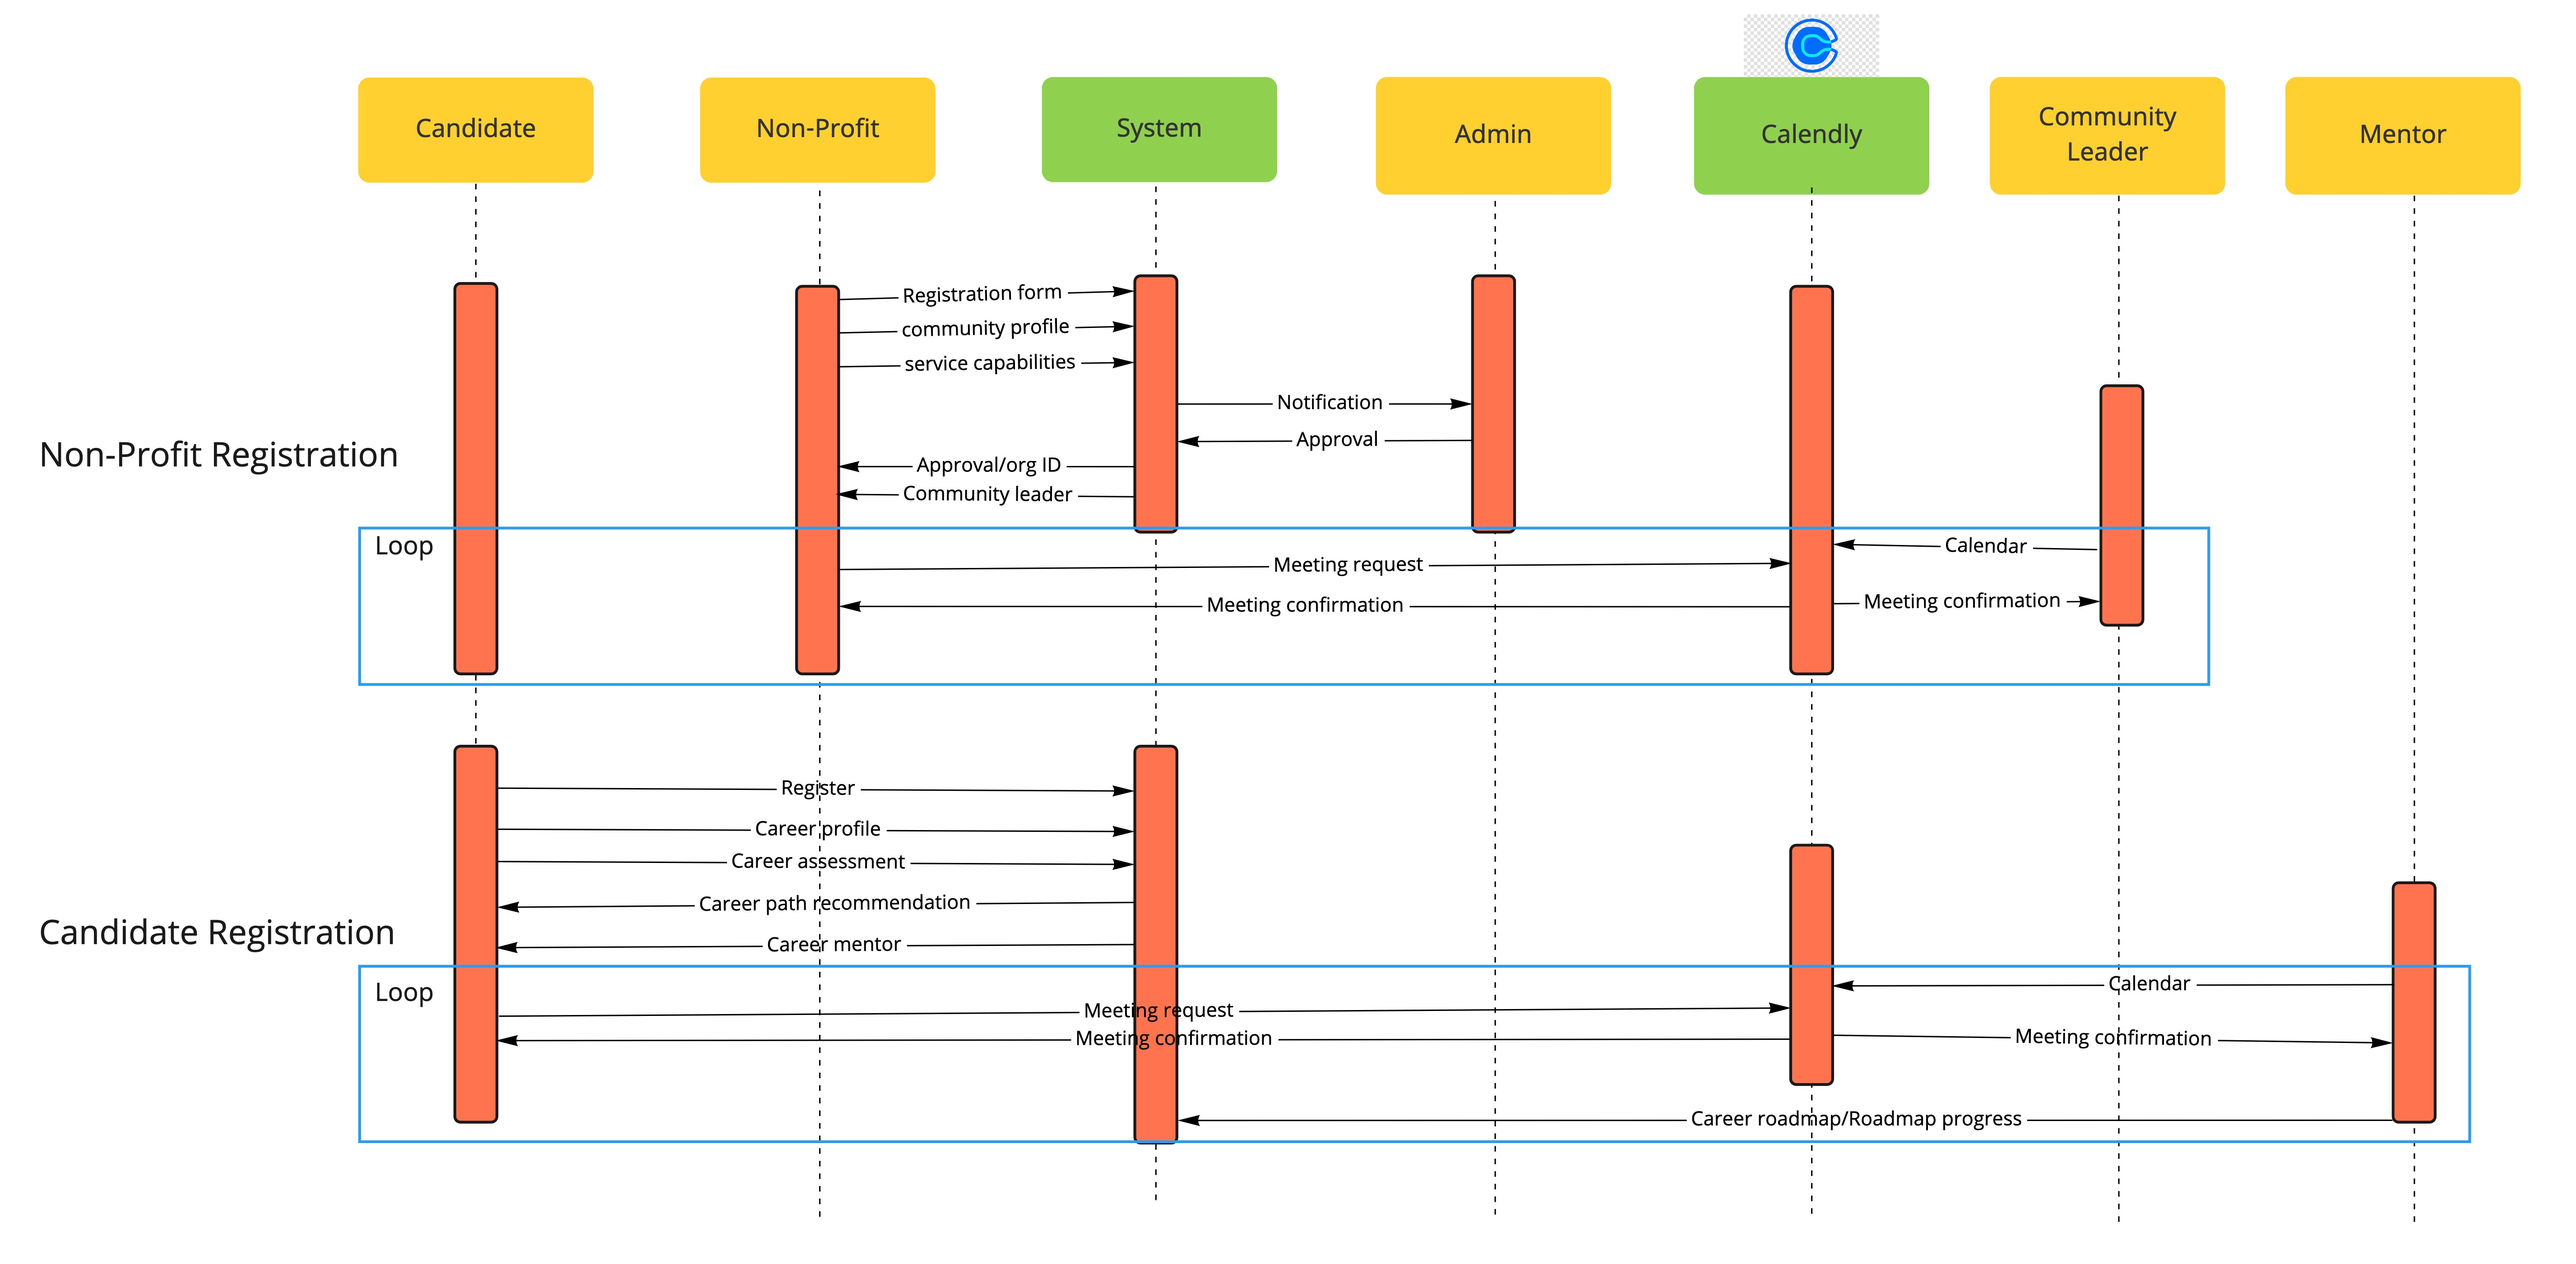
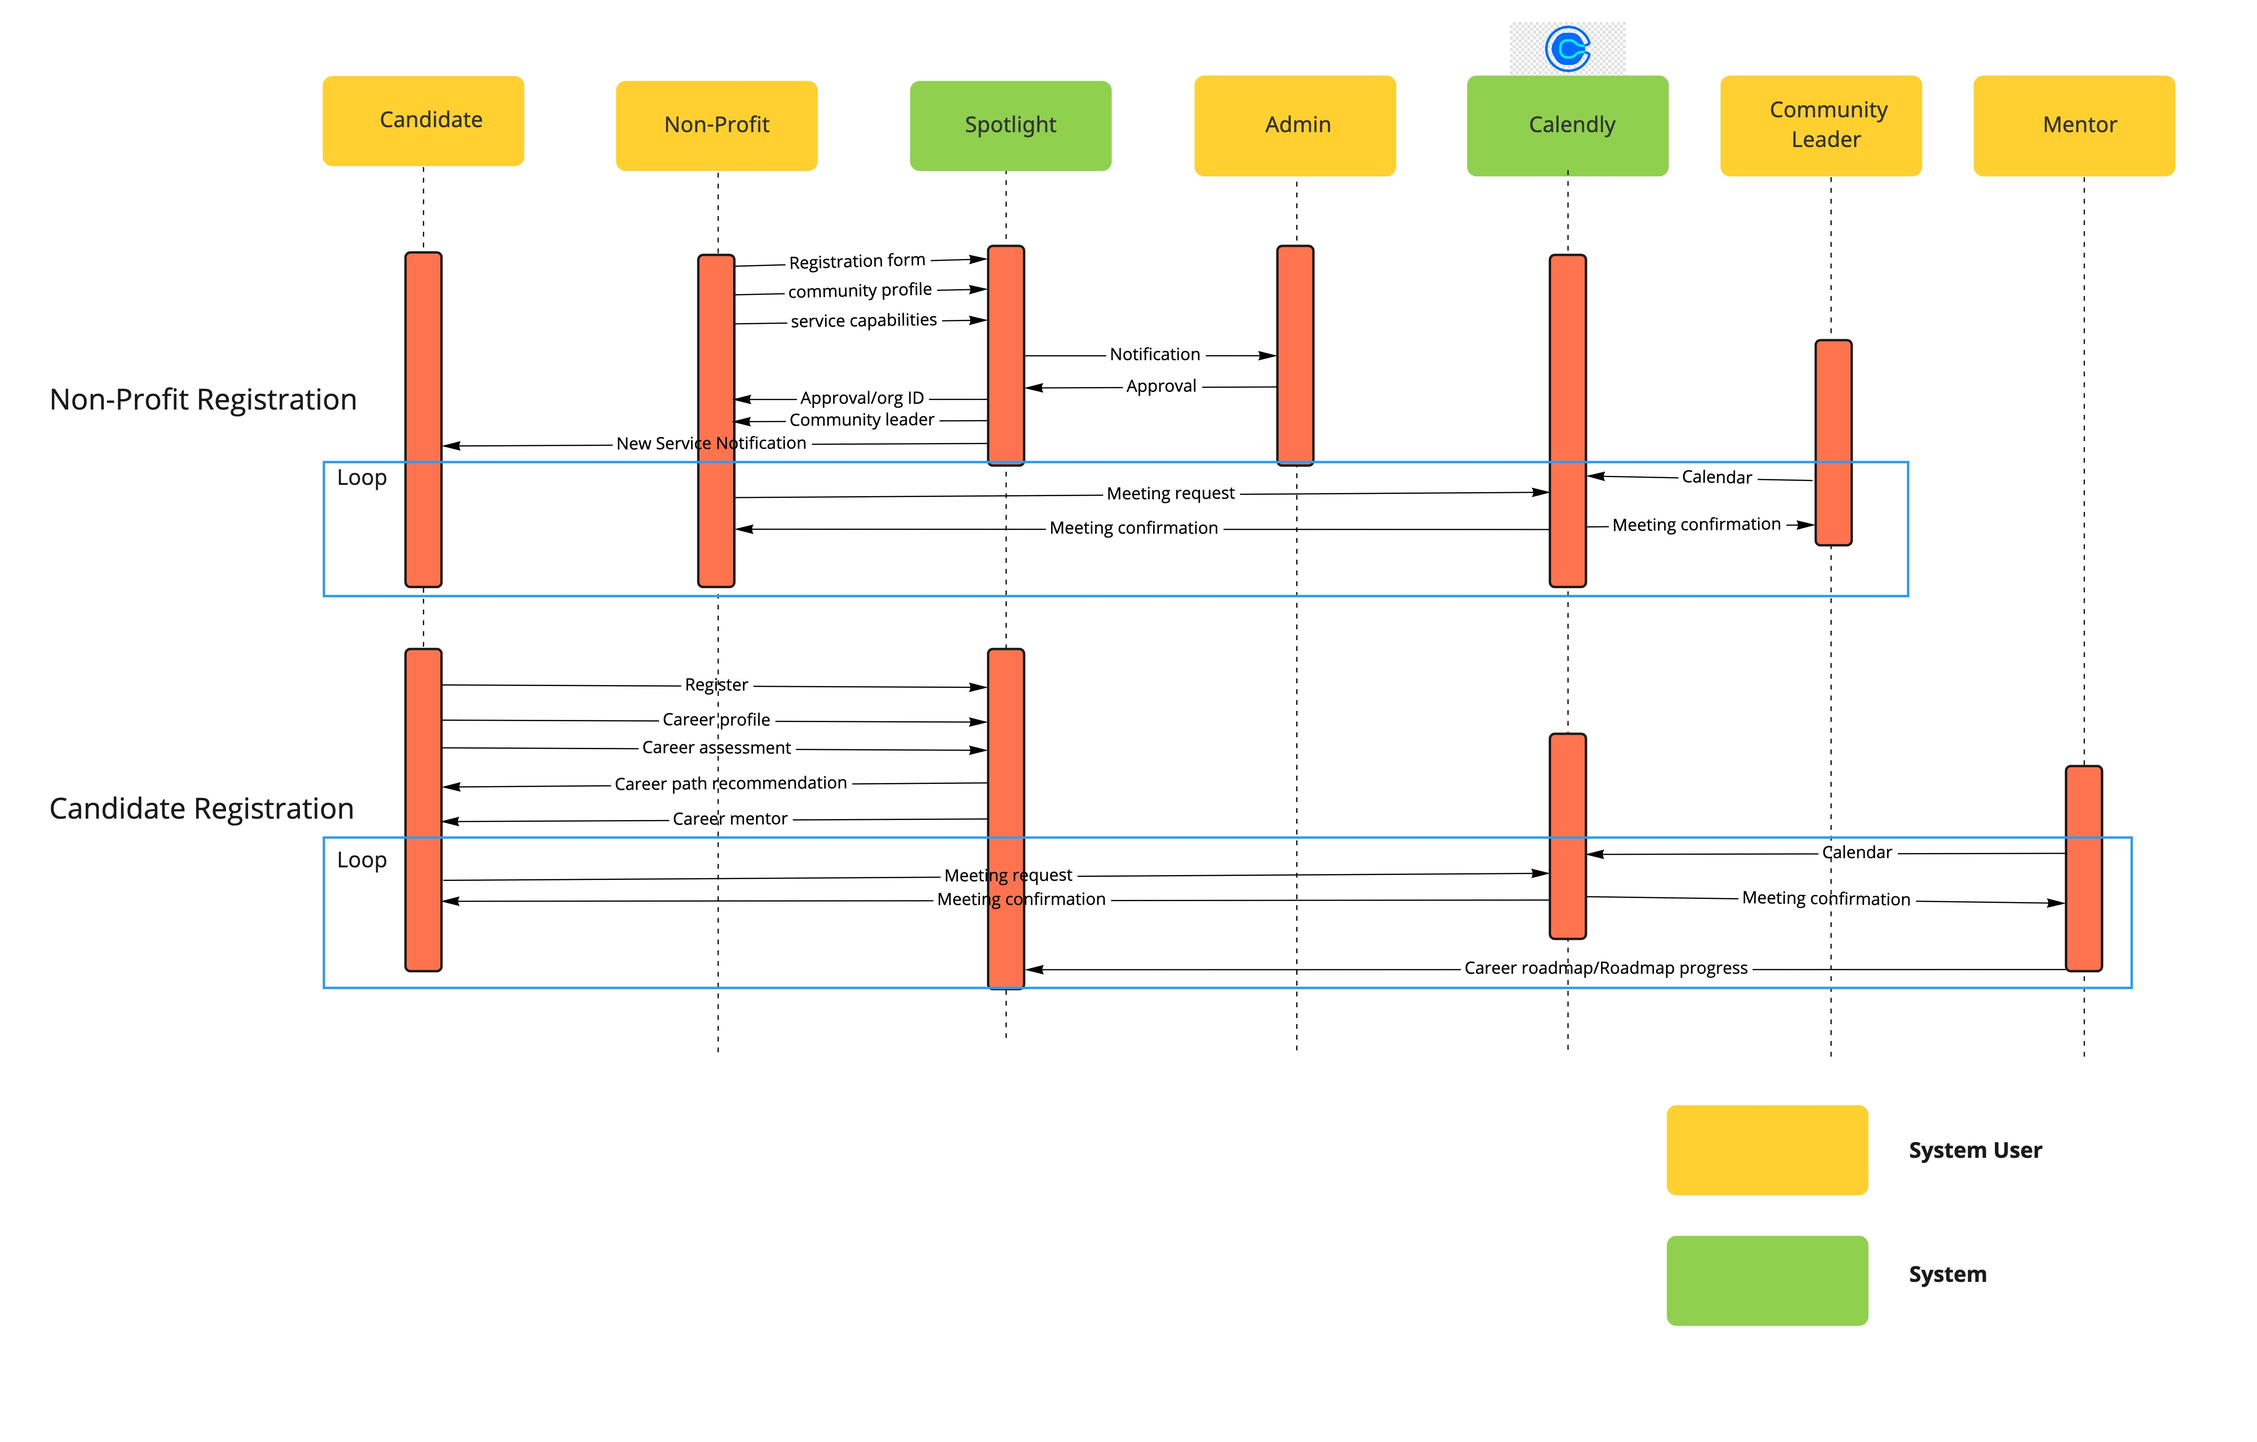
Sort architectural characteristics based on the order of importance + update sequence diagram
* Sort architectural characteristics based on the order of importance
* Add legends to the sequence diagram
* Add a new sequence for new service notification when the non-profit is registered

diff --git a/README.md b/README.md
@@ -30,17 +30,16 @@ Presented by
     - [c. Hard Platform Requirements](#c-hard-platform-requirements)
   - [5. Architectural Characteristics](#5-architectural-characteristics)
     - [a. Usability](#a-usability)
-    - [b. Security](#b-security)
-    - [c. Privacy](#c-privacy)
-    - [d. Interoperability](#d-interoperability)
-    - [e. Feasibility](#e-feasibility)
-      - [I. Operational Costs](#i-operational-costs)
-      - [II. Infrastructure & Cloud Costs](#ii-infrastructure--cloud-costs)
-      - [III. Security Update Costs](#iii-security-update-costs)
-    - [f. Data Integrity](#f-data-integrity)
-    - [g. Responsiveness](#g-responsiveness)
-    - [h. Availability](#h-availability)
-    - [j. Scalability](#j-scalability)
+    - [b. Responsiveness](#b-responsiveness)
+    - [c. Feasibility](#c-feasibility)
+      - [i. Operational Costs](#i-operational-costs)
+      - [ii. Infrastructure & Cloud Costs](#ii-infrastructure--cloud-costs)
+      - [iii. Security Update Costs](#iii-security-update-costs)
+    - [d. Elasticity](#d-elasticity)
+    - [e. Security](#e-security)
+    - [f. Privacy](#f-privacy)
+    - [g. Interoperability](#d-interoperability)
+    - [h. Data Integrity](#f-data-integrity)
   - [6. Proposed Solution](#6-proposed-solution)
     - [a. Overview & Value Proposition](#a-overview--value-proposition)
     - [b. High-Level Architecture Diagram](#b-high-level-architecture-diagram)
@@ -177,19 +176,11 @@ A technology solution that serves the purpose of enhancing visibility, support, 
 
 The end users are not tech-savvy; therefore the success of this product depends on how easy the user can learn new features and how easy it is to use the system on different devices.
 
-### b. Security
+### b. Responsiveness
 
-The application is exposed on the web which always has the risk of cyberattacks; should the application be accessed by unauthorized users. Moreover, the system stores sensitive information, such as personal data.
+Since Spotlight is a user-facing application, it is important to ensure the system responds to the end-user requests promptly. All user interactions *MUST* be coded in such a way as to provide some form of feedback for all actions. This feedback must occur within the [Doherty Threshold of 400ms](https://www.uxtoast.com/ux-laws/doherty-threshold).
 
-### c. Privacy
-
-The system needs to handle the PII of candidates. Personal information must be accessed by authorized administrators, mentors, and non-profit representatives.
-
-### d. Interoperability
-
-The purpose of this product is to facilitate collaboration between non-profits. To achieve this goal, Spotlight needs to communicate with other external systems (such as childcare/housing services) and other legacy systems.
-
-### e. Feasibility
+### c. Feasibility
 
 The cost and time to develop and maintain this application are driving factors. The consumers of this platform are the non-profit organizations for whom, it is important to minimize the operational cost.
 The total cost of ownership comprises a significant number of factors. In this particular architecture, excluding new feature development, 3 primary cost factors will make up the majority of the costs.
@@ -206,23 +197,27 @@ Generally, these would include all the infrastructure, cloud, services, licenses
 
 The primary ongoing development costs not related to feature development on this platform, in addition to responding to events and the infrastructure itself, will be the updates to the application libraries to address ongoing security concerns. The application frontend is by far the most vulnerable part of this system in terms of security and will require ongoing updates. The subsequent phase, if applicable and if chosen for the semifinals, will provide an expected high-level budget of operational costs and expected expenses in this category.
 
-### f. Data Integrity
-
-The candidate's career path and progress, as well as non-profit information, are accessed by multiple personas. It is crucial to ensure the data is accessed by the authorized person, and the accuracy of the data is maintained throughout its lifecycle.
-
-### g. Responsiveness
-
-Since Spotlight is user-facing, it is important to ensure the system responds to the end-user requests promptly. All user interactions *MUST* be coded in such a way as to provide some form of feedback for all actions. This feedback must occur within the [Doherty Threshold of 400ms](https://www.uxtoast.com/ux-laws/doherty-threshold).
-
-### h. Availability
-
-Amazon provides services in multiple Availability Zones. By using Serverless services, the Diversity Cyber Council platform will make use of these, by default and as such, the platform can withstand the loss of a given Availability Zone.
-
-### j. Scalability
+### d. Elasticity
 
 The choice of serverless as a platform allows much faster scaling than if a container or VM-based infrastructure were used. Also, the scaling characteristics of the services are, for the most part, handled by the cloud provider (AWS). Some services have scaling limits (i.e. lambda defaults to 1000 concurrent functions running at a time) and these should be monitored so that the limits can be increased before they become an issue.
 
 A further benefit of the use of a Serverless platform is that idle cost (the cost when there is no load) will be lower than when VMs or containers are used.
+
+### e. Security
+
+The application is exposed on the web which always has the risk of cyberattacks; should the application be accessed by unauthorized users. Moreover, the system stores sensitive information, such as personal data.
+
+### f. Privacy
+
+The system needs to handle the PII of candidates. Personal information must be accessed by authorized administrators, mentors, and non-profit representatives.
+
+### g. Interoperability
+
+The purpose of this product is to facilitate collaboration between non-profits. To achieve this goal, Spotlight needs to communicate with external systems (such as childcare/housing services) and legacy systems.
+
+### h. Data Integrity
+
+The candidate's career path and progress, as well as non-profit information, are accessed by multiple personas. It is crucial to ensure the data is accessed by the authorized person, and the accuracy of the data is maintained throughout its lifecycle.
 
 ---
 
@@ -236,11 +231,11 @@ Many non-profits choose to minimize their operating costs by cutting the budget 
 
 On the other hand, the lack of visibility of non-profits and their offerings creates a barrier to access for the people who can benefit most from these programs. The decentralization and lack of support between non-profits create gaps in service and overall impact.
 
-Our proposed solution tackles the lack of visibility by enabling Spotlight App to be a central hub where non-profits are empowered to identify their service capabilities and publicize their offerings. The Spotlight App also enables the candidates to find services by providing smart recommendations based on the information provided by users and their geographical preferences. The Spotlight Mobile App brings the non-profit services closer to the candidates, as [85% of Americans currently own a smartphone](https://www.pewresearch.org/internet/fact-sheet/mobile/). The map view of the non-profit offerings makes it convenient for candidates to locate the services closest to their desired locations (school, home, work). The notification service also enables Spotlight to advertise new non-profit offerings to end-users, based on their desired location or services. In addition, the prediction capability of our solution helps non-profits identify the offering gaps, and predict the future desirable career paths. Our solution leverages AWS Pinpoint to collect usage data which essentially provides meaningful metrics to guide administrators and non-profits to improve their offerings and the application usability.
+Our proposed solution tackles the lack of visibility by enabling Spotlight App to be a central hub where non-profits are empowered to identify their service capabilities and publicize their offerings. The Spotlight App also enables the candidates to find services by providing smart recommendations based on the information provided by users and their geographical preferences. Moreover, the notification service enables non-profits to advertise their new offerings to candidates, based on their location/desired services. The Spotlight Mobile App brings the non-profit services closer to the candidates, as [85% of Americans currently own a smartphone](https://www.pewresearch.org/internet/fact-sheet/mobile/). The map view of the non-profit offerings makes it convenient for candidates to locate the services closest to their desired locations (school, home, work). In addition, the prediction capability of our solution helps non-profits identify the offering gaps, and predict the future desirable career paths. Our solution leverages AWS Pinpoint to collect usage data which essentially provides meaningful metrics to guide administrators and non-profits to improve their offerings and the application usability.
 
 During the design process, we prioritized finding a cost-effective solution, without compromising the efficiency or the usability of the product. Our proposed solution reduces the cost of human resources by automating most of the manual processes that are typically performed by volunteers and employees. This frees them to focus on what is the most important for non-profits (conducting fundraising events, meeting candidates and nonprofits). Calendly is used to replace the traditional means of communication (such as phone calls and emails) for scheduling meetings. A recommendation engine is used to simplify the interview process by taking the candidate's profile and needs as inputs and providing smart initial recommendations for a career roadmap.
 
-To reduce the cost of infrastructure, we introduced Serverless along with an affordable technology stack (such as D3, Vuejs, AWS Amplify). The use of serverless means that the development team does not need to spend time building, securing and maintaining servers. By using D3 and Vuejs for the frontend development, and AWS Amplify for the backend development, the Spotlight App can be developed and deployed faster and more affordably.
+To reduce the cost of infrastructure, we introduced Serverless along with an affordable technology stack (such as D3, Vuejs, AWS Amplify). The use of serverless means that the development team does not need to spend time building, securing and maintaining servers. By using D3 and Vuejs for the frontend development, and AWS Amplify for the backend development, the Spotlight App can be developed and deployed faster and within a reasonable budget.
 
 ### b. High-Level Architecture Diagram
 
@@ -248,7 +243,7 @@ To reduce the cost of infrastructure, we introduced Serverless along with an aff
 
 #### i. HLD Components
 
-For a detailed breakout of components from the HLD, and their handling, see [here](docs/Components.md)
+For a detailed breakout of components from the HLD, and their handling, see [here](docs/Components.md).
 
 #### ii. C4 Diagrams
 We leverage C4 model to describe our proposed software architecture.
